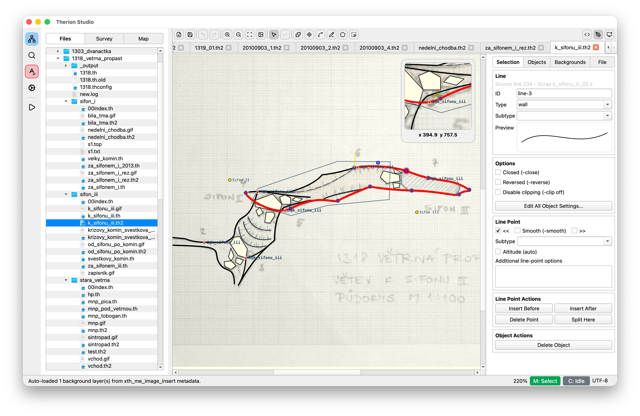
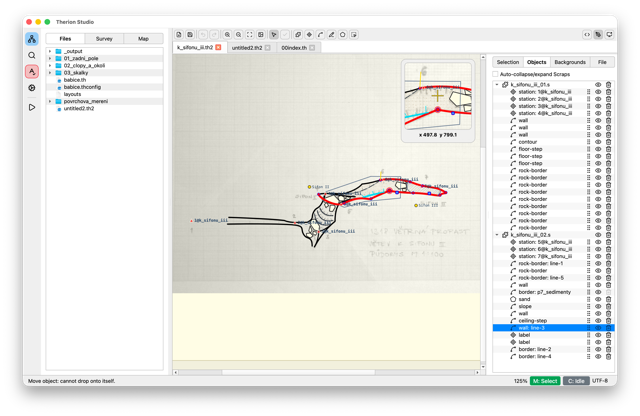
fix: update map editor screenshot links and replace JPEG with PNG for better quality

diff --git a/README.md b/README.md
@@ -24,7 +24,7 @@ is easier to maintain and more comfortable on modern desktop systems, especially
 
 ## Screenshots
 
-[![Visual TH2 map editor](docs/screenshots/map_editor_medium.png)](docs/screenshots/map_editor.jpeg) [![Detached multi-window map editing](docs/screenshots/multi_window_mode_medium.png)](docs/screenshots/multi_window.jpeg) [![Project validation panel](docs/screenshots/validator_medium.png)](docs/screenshots/validator_medium.png) [![Project search panel](docs/screenshots/search_medium.png)](docs/screenshots/search.png) [![LOX 3D viewer](docs/screenshots/3d_viewer_medium.png)](docs/screenshots/3d_viewer.png)
+[![Visual TH2 map editor](docs/screenshots/map_editor_medium.png)](docs/screenshots/map_editor.png) [![Detached multi-window map editing](docs/screenshots/multi_window_mode_medium.png)](docs/screenshots/multi_window.jpeg) [![Project validation panel](docs/screenshots/validator_medium.png)](docs/screenshots/validator.png) [![Project search panel](docs/screenshots/search_medium.png)](docs/screenshots/search.png) [![LOX 3D viewer](docs/screenshots/3d_viewer_medium.png)](docs/screenshots/3d_viewer.png)
 
 ## Status
 
